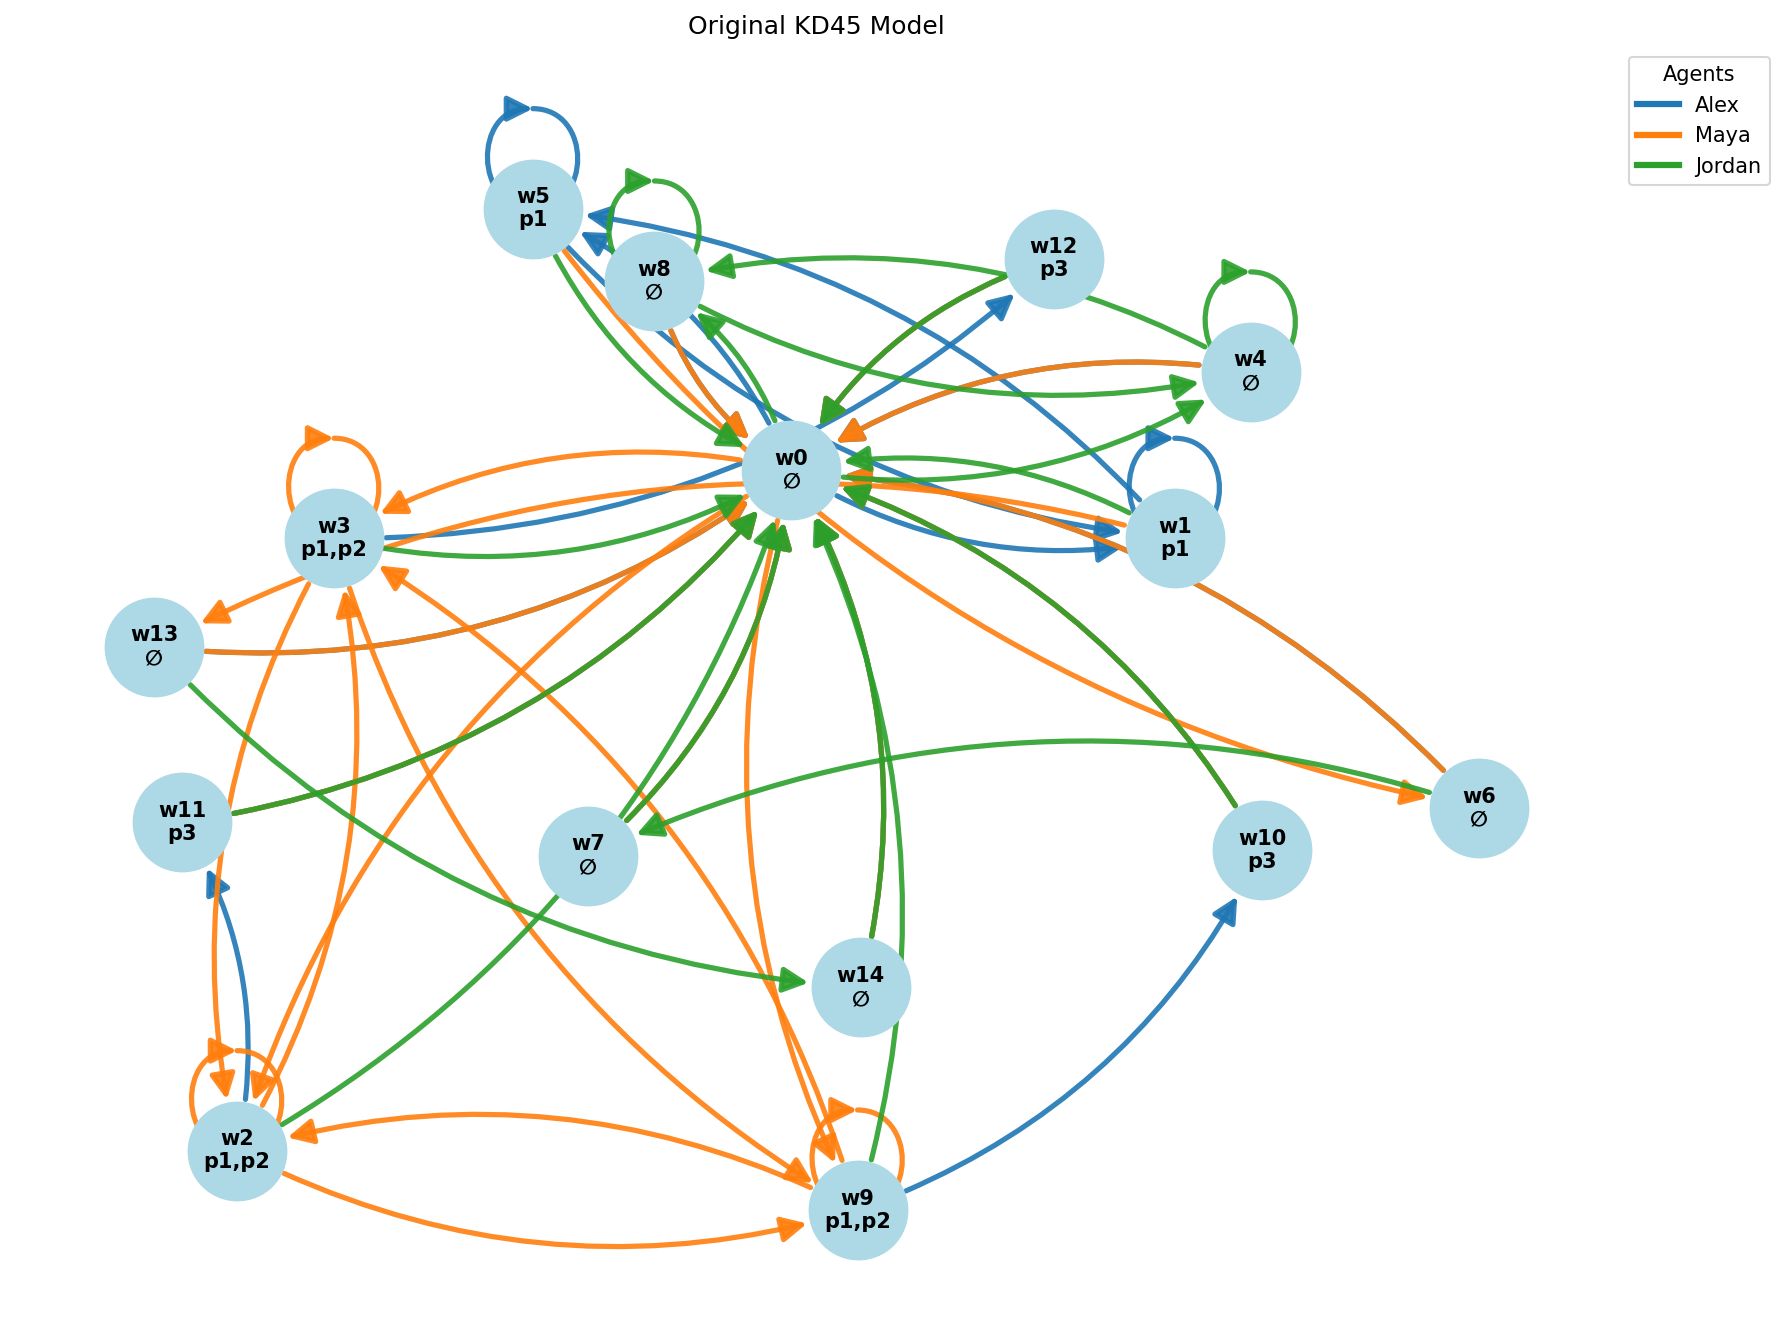
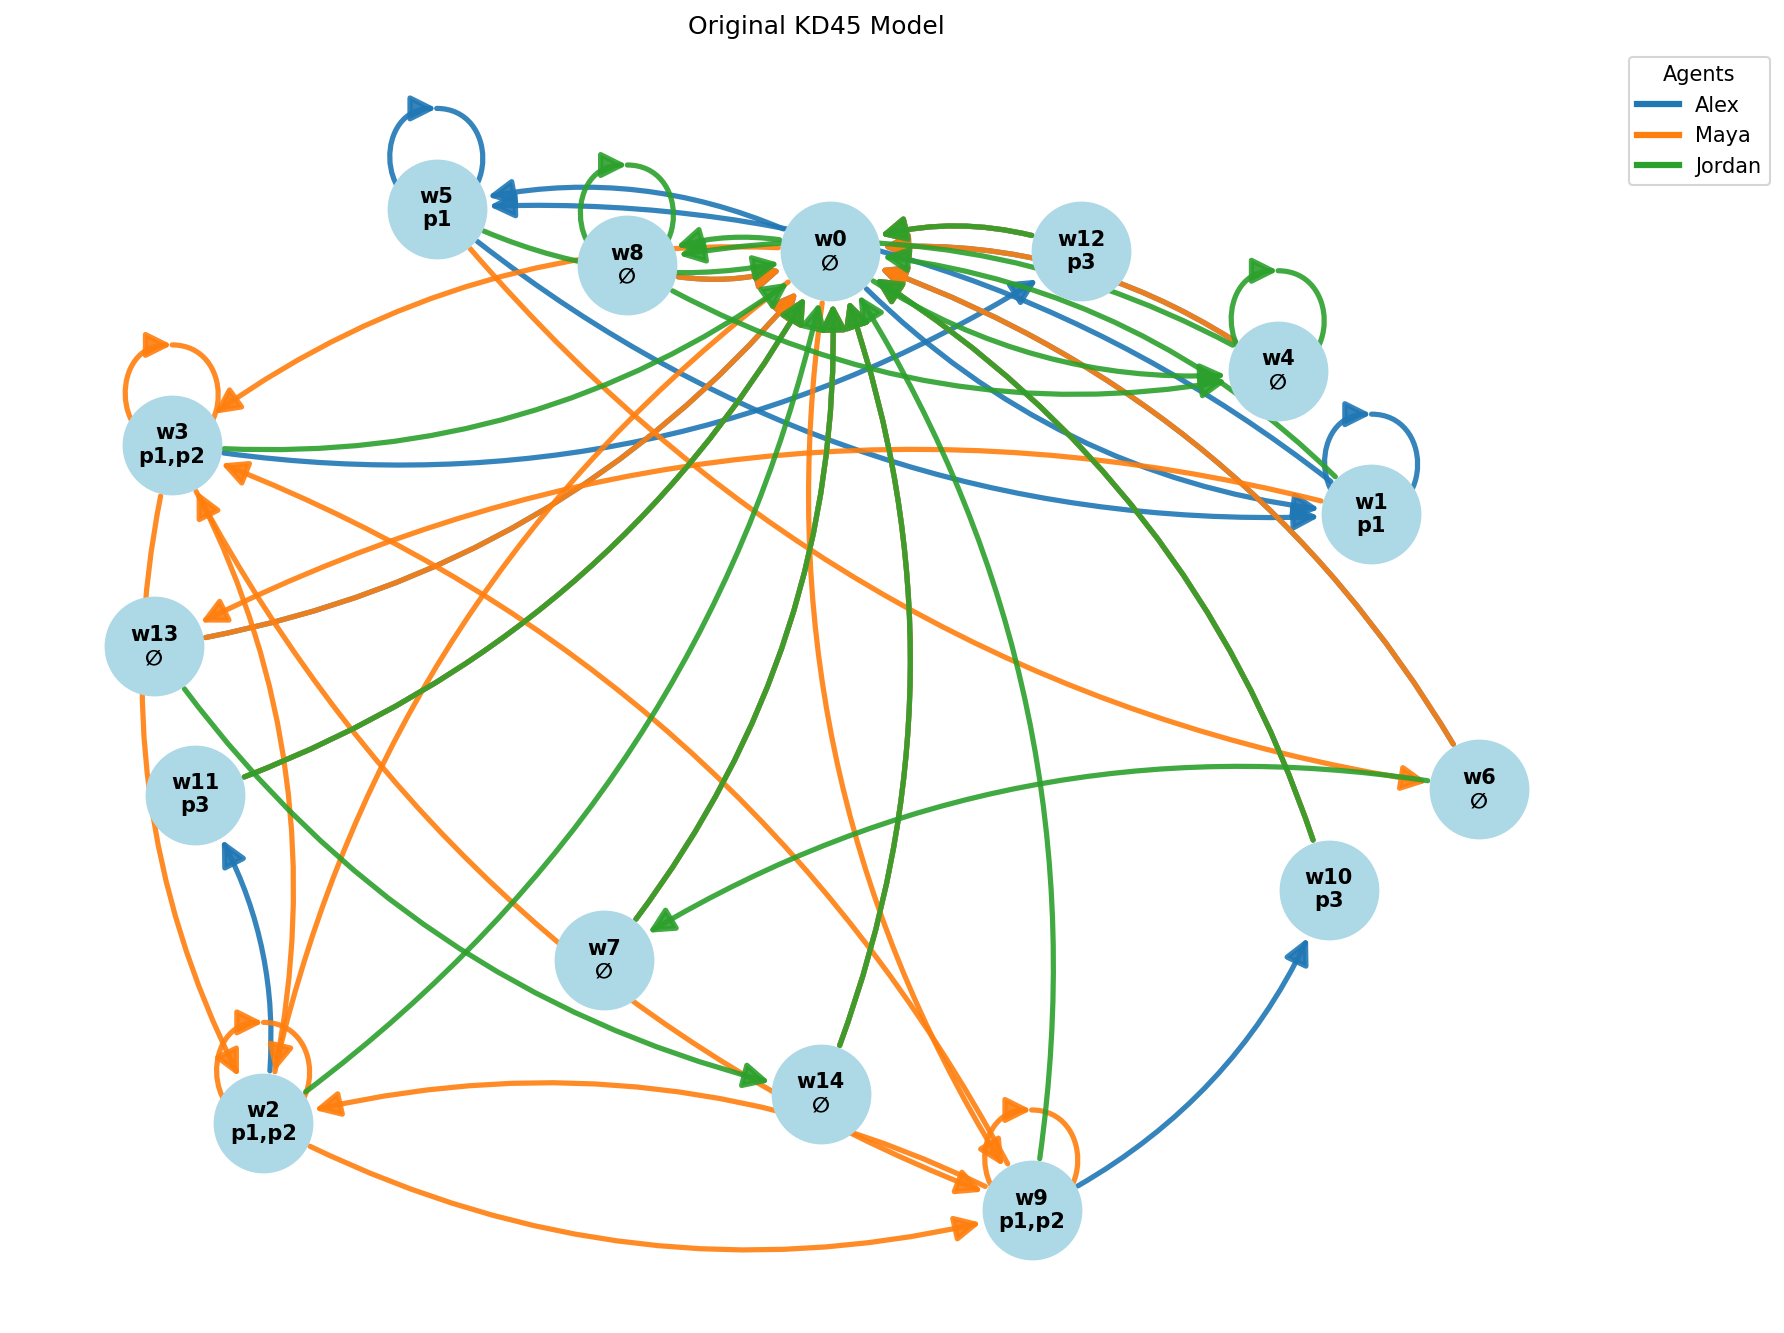
KD45 final

diff --git a/kripke/model.py b/kripke/model.py
@@ -1,5 +1,6 @@
 from dataclasses import dataclass
-from typing import List, Set, Dict
+from typing import List, Set, Dict, Optional
+from core.ast_parser import Proposition, Not, Belief, Node
 
 @dataclass
 class KripkeModel:
@@ -8,25 +9,32 @@ class KripkeModel:
     propositions: List[str]
     relations: Dict[str, Set[tuple]]
     valuation: Dict[int, Set[int]]
-    enforce_frame: bool = True  
+    requirements: Optional[Dict[int, Set[Node]]] = None
+    enforce_frame: bool = True
 
     def __post_init__(self):
         if self.enforce_frame:
             self._enforce_kd45()
+        if self.requirements is not None:
+            self._saturate_beliefs()
 
     def _enforce_kd45(self):
+        """Добавляет транзитивность, евклидовость и серийность."""
         for agent in self.agents:
             rel = set(self.relations.get(agent, set()))
             all_worlds = set(self.worlds)
 
+            # Транзитивность и евклидовость до фиксированной точки
             while True:
                 new_rel = set(rel)
 
+                # Транзитивность: (u,v) и (v,w) -> (u,w)
                 for (u, v) in rel:
                     for (x, w) in rel:
                         if v == x:
                             new_rel.add((u, w))
 
+                # Евклидовость: (u,v) и (u,w) -> (v,w)
                 for (u, v) in rel:
                     for (x, y) in rel:
                         if u == x and v != y:
@@ -36,22 +44,55 @@ class KripkeModel:
                     break
                 rel = new_rel
 
+            # Серийность: у каждого мира должна быть хотя бы одна исходящая дуга
             worlds_with_outgoing = {u for (u, v) in rel}
             worlds_needing_edges = all_worlds - worlds_with_outgoing
 
             if worlds_needing_edges and all_worlds:
-                target = next(iter(all_worlds))
+                # Если есть хоть один мир с исходящей дугой, цепляемся к нему,
+                # иначе создаём петлю на первом попавшемся мире.
+                if worlds_with_outgoing:
+                    target = next(iter(worlds_with_outgoing))
+                else:
+                    target = next(iter(all_worlds))
                 for w in worlds_needing_edges:
                     rel.add((w, target))
 
             self.relations[agent] = rel
 
+    def _saturate_beliefs(self):
+        """
+        После KD45-замыкания гарантирует, что все Belief-формулы остаются истинными.
+        Для каждого мира w и каждой формулы B_a φ из требований этого мира,
+        добавляем φ во все миры v, достижимые из w по агенту a.
+        """
+        changed = True
+        while changed:
+            changed = False
+            for w, formulas in self.requirements.items():
+                for f in formulas:
+                    if isinstance(f, Belief):
+                        agent = f.agent
+                        sub = f.child
+                        for (u, v) in self.relations[agent]:
+                            if u == w:
+                                reqs = self.requirements.setdefault(v, set())
+                                if sub not in reqs:
+                                    reqs.add(sub)
+                                    # Обновляем оценку для пропозициональных подформул
+                                    if isinstance(sub, Proposition):
+                                        idx = int(sub.name[1:])
+                                        self.valuation.setdefault(v, set()).add(idx)
+                                    elif isinstance(sub, Not) and isinstance(sub.child, Proposition):
+                                        idx = int(sub.child.name[1:])
+                                        self.valuation.setdefault(v, set()).discard(idx)
+                                    changed = True
+                            # Вложенные Belief обрабатываются рекурсивно благодаря changed
+
     def world_entails(self, world: int, prop_index: int) -> bool:
         return prop_index in self.valuation.get(world, set())
 
-    def check_formula(self, world: int, ast_node: 'Node') -> bool:
-        from core.ast_parser import Proposition, Not, Belief
-
+    def check_formula(self, world: int, ast_node: Node) -> bool:
         if isinstance(ast_node, Proposition):
             idx = int(ast_node.name[1:])
             return self.world_entails(world, idx)
@@ -62,12 +103,9 @@ class KripkeModel:
         elif isinstance(ast_node, Belief):
             agent = ast_node.agent
             child = ast_node.child
-
             accessible = {v for (u, v) in self.relations[agent] if u == world}
-
             if not accessible:
-                return True
-
+                return True   # vacuous truth
             return all(self.check_formula(v, child) for v in accessible)
 
         else:

diff --git a/kripke/builder.py b/kripke/builder.py
@@ -8,8 +8,8 @@ class KripkeBuilder:
         self.propositions = propositions
         self.asts = [parse_formula(f) for f in formulas]
         self.world_counter = 0
-        self.worlds: Dict[int, Set[Node]] = {} 
-        self.relations: Dict[str, Set[Tuple[int,int]]] = {a: set() for a in agents}
+        self.worlds: Dict[int, Set[Node]] = {}
+        self.relations: Dict[str, Set[Tuple[int, int]]] = {a: set() for a in agents}
         self.valuation: Dict[int, Set[int]] = {}
         self._build()
 
@@ -24,9 +24,11 @@ class KripkeBuilder:
         if formula in self.worlds[world]:
             return
         self.worlds[world].add(formula)
+
         if isinstance(formula, Proposition):
             idx = int(formula.name[1:])
             self.valuation[world].add(idx)
+
         elif isinstance(formula, Not):
             child = formula.child
             if isinstance(child, Proposition):
@@ -39,34 +41,21 @@ class KripkeBuilder:
                 self.relations[agent].add((world, v))
                 self._add_requirement(v, Not(sub))
             else:
-      
+                # Not(Not(φ)) -> добавляем φ
                 self._add_requirement(world, child.child)
+
         elif isinstance(formula, Belief):
             agent = formula.agent
             sub = formula.child
-            
             v = self._new_world()
             self.relations[agent].add((world, v))
             self._add_requirement(v, sub)
+
         else:
             raise ValueError(f"Unsupported formula type: {type(formula)}")
 
-    def _build(self):
-        root = self._new_world()
-        for ast in self.asts:
-            self._add_requirement(root, ast)
-        
-        self._propagate_beliefs()
-        
-        self.model = KripkeModel(
-            worlds=list(self.worlds.keys()),
-            agents=self.agents,
-            propositions=self.propositions,
-            relations=self.relations,
-            valuation=self.valuation
-        )
-
     def _propagate_beliefs(self):
+        """Распространяет подформулы убеждений по существующим рёбрам."""
         changed = True
         while changed:
             changed = False
@@ -75,8 +64,25 @@ class KripkeBuilder:
                     if isinstance(f, Belief):
                         agent = f.agent
                         sub = f.child
-                        for v in self.relations[agent]:
-                            if v[0] == w:
-                                if sub not in self.worlds[v[1]]:
-                                    self._add_requirement(v[1], sub)
+                        for (u, v) in self.relations[agent]:
+                            if u == w:
+                                if sub not in self.worlds[v]:
+                                    self._add_requirement(v, sub)
                                     changed = True
+
+    def _build(self):
+        root = self._new_world()
+        for ast in self.asts:
+            self._add_requirement(root, ast)
+
+        self._propagate_beliefs()
+
+        self.model = KripkeModel(
+            worlds=list(self.worlds.keys()),
+            agents=self.agents,
+            propositions=self.propositions,
+            relations=self.relations,
+            valuation=self.valuation,
+            requirements=self.worlds,      # передаём требования для последующего насыщения
+            enforce_frame=True
+        )

diff --git a/kripke/bisimulation.py b/kripke/bisimulation.py
@@ -1,14 +1,13 @@
 from collections import defaultdict
-from typing import List, Set, Dict, Tuple
 from kripke.model import KripkeModel
 
 def compute_bisimulation_quotient(model: KripkeModel) -> KripkeModel:
     worlds = model.worlds
     agents = model.agents
 
+    # Начальное разбиение по оценке
     partition = []
     val_to_block = {}
-
     for w in worlds:
         val = frozenset(model.valuation.get(w, set()))
         if val not in val_to_block:
@@ -17,14 +16,13 @@ def compute_bisimulation_quotient(model: KripkeModel) -> KripkeModel:
         else:
             partition[val_to_block[val]].add(w)
 
+    # Рефайнмент
     changed = True
     while changed:
         changed = False
         new_partition = []
-
         for block in partition:
-            sig_to_worlds = {}
-
+            sig_to_worlds = defaultdict(set)
             for w in block:
                 sig = []
                 for a in agents:
@@ -36,47 +34,42 @@ def compute_bisimulation_quotient(model: KripkeModel) -> KripkeModel:
                                     reachable_blocks.add(idx)
                                     break
                     sig.append(frozenset(reachable_blocks))
-
                 sig = tuple(sig)
-                sig_to_worlds.setdefault(sig, set()).add(w)
+                sig_to_worlds[sig].add(w)
 
             if len(sig_to_worlds) > 1:
                 changed = True
                 new_partition.extend(sig_to_worlds.values())
             else:
                 new_partition.append(block)
-
         partition = new_partition
 
+    # Построение фактор-модели
     block_to_new = {}
     new_worlds = []
     new_valuation = {}
-
     for idx, block in enumerate(partition):
         key = frozenset(block)
         block_to_new[key] = idx
         new_worlds.append(idx)
-
         rep = next(iter(block))
         new_valuation[idx] = model.valuation.get(rep, set()).copy()
 
     new_relations = {a: set() for a in agents}
-
     for a in agents:
         for (u, v) in model.relations[a]:
-
             bu = next(frozenset(b) for b in partition if u in b)
             bv = next(frozenset(b) for b in partition if v in b)
-
             new_relations[a].add((block_to_new[bu], block_to_new[bv]))
 
+    # Создаём фактор-модель (KD45 уже не применяем)
     reduced = KripkeModel(
         worlds=new_worlds,
         agents=agents,
         propositions=model.propositions,
         relations=new_relations,
         valuation=new_valuation,
-        enforce_frame=False  
+        requirements=None,      # в фактор-модели требования не нужны для проверки формул
+        enforce_frame=False
     )
-
     return reduced

diff --git a/kripke/visualize.py b/kripke/visualize.py
@@ -15,31 +15,28 @@ def draw_kripke_model(model, title="Kripke Model", save_path=None):
         for (u, v) in model.relations[agent]:
             G.add_edge(u, v, agent=agent)
 
-    pos = nx.spring_layout(G, seed=42, k=2, iterations=50)
+    pos = nx.spring_layout(G, seed=42, k=2.5, iterations=50)
 
     plt.figure(figsize=(12, 9))
-
     nx.draw_networkx_nodes(G, pos, node_color='lightblue', node_size=2200)
 
     for agent, color in agent_colors.items():
         edges = [(u, v) for (u, v, d) in G.edges(data=True) if d['agent'] == agent]
-
         nx.draw_networkx_edges(
             G,
             pos,
             edgelist=edges,
             edge_color=[color],
-            width=2.5,              
+            width=2.5,
             alpha=0.9,
             arrows=True,
-            arrowstyle='-|>',       
-            arrowsize=25,           
-            connectionstyle='arc3,rad=0.2', 
+            arrowstyle='-|>',
+            arrowsize=25,
+            connectionstyle='arc3,rad=0.2',
             min_source_margin=25,
             min_target_margin=25
         )
 
-    # --- подписи ---
     nx.draw_networkx_labels(
         G,
         pos,
@@ -48,17 +45,14 @@ def draw_kripke_model(model, title="Kripke Model", save_path=None):
         font_weight='bold'
     )
 
-    # --- легенда ---
     for agent, color in agent_colors.items():
         plt.plot([], [], color=color, label=agent, linewidth=3)
 
     plt.legend(title="Agents", loc='upper left', bbox_to_anchor=(1, 1))
-
     plt.title(title)
     plt.axis('off')
     plt.tight_layout()
 
     if save_path:
         plt.savefig(save_path, dpi=150, bbox_inches='tight')
-
     plt.show()
